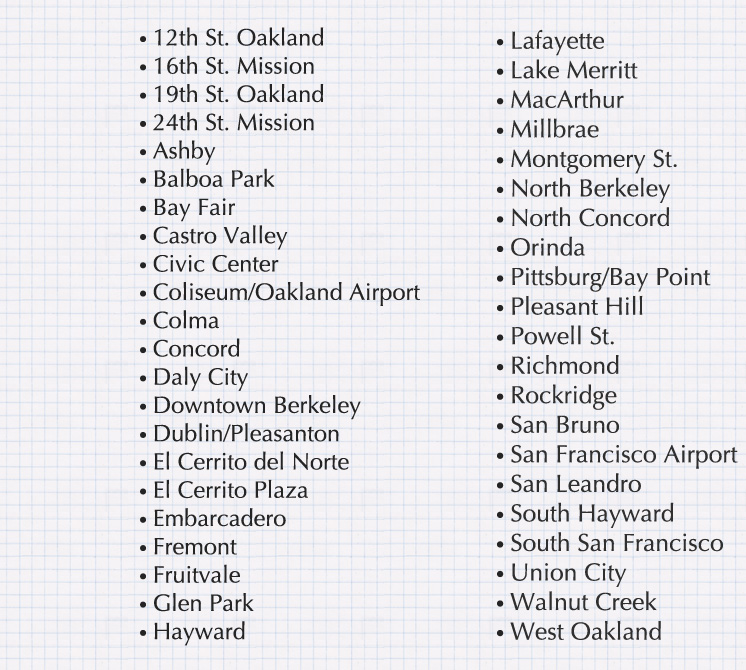
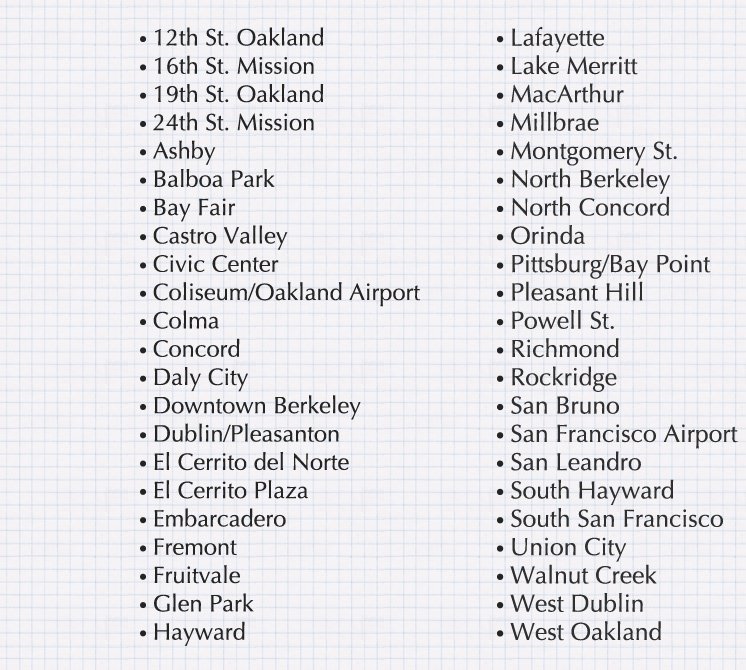
added West Dublin station to maps

diff --git a/BART.wdgt/Maps/Alphabetical/info.js b/BART.wdgt/Maps/Alphabetical/info.js
@@ -10,27 +10,27 @@ map.height = 670  // px
 
 map.isZoomable = false
  
-map.addStation("Richmond",501,369)
+map.addStation("Richmond",501,350)
 map.addStation("Del Norte",143,464)
 map.addStation("Plaza",143,492)
-map.addStation("North Berkeley",501,192)
+map.addStation("North Berkeley",501,180)
 map.addStation("Berkeley",143,408)
 map.addStation("Ashby",143,153)
-map.addStation("Rockridge",501,398)
-map.addStation("Orinda",501,250)
-map.addStation("Lafayette",501,44)
-map.addStation("Walnut Creek",501,606)
-map.addStation("Pleasant Hill",501,309)
+map.addStation("Rockridge",501,378)
+map.addStation("Orinda",501,237)
+map.addStation("Lafayette",501,39)
+map.addStation("Walnut Creek",501,576)
+map.addStation("Pleasant Hill",501,294)
 map.addStation("Concord",143,353)
-map.addStation("North Concord",501,221)
-map.addStation("Pittsburg",501,281)
-map.addStation("MacArthur",501,103)
+map.addStation("North Concord",501,208)
+map.addStation("Pittsburg",501,265)
+map.addStation("MacArthur",501,95)
 map.addStation("19th St",143,97)
 map.addStation("12th St",143,41)
-map.addStation("West Oakland",501,635)
+map.addStation("West Oakland",501,633)
 map.addStation("Embarcadero",143,522)
-map.addStation("Montgomery",501,162)
-map.addStation("Powell",501,340)
+map.addStation("Montgomery",501,152)
+map.addStation("Powell",501,322)
 map.addStation("Civic Center",143,267)
 map.addStation("16th St",143,69)
 map.addStation("24th St",143,124)
@@ -38,19 +38,19 @@ map.addStation("Glen Park",143,606)
 map.addStation("Balboa Park",143,181)
 map.addStation("Daly City",143,380)
 map.addStation("Colma",143,324)
-map.addStation("South SF",501,547)
-map.addStation("San Bruno",501,428)
-map.addStation("SFO",501,457)
-map.addStation("Millbrae",501,132)
-map.addStation("Lake Merritt",501,74)
+map.addStation("South SF",501,520)
+map.addStation("San Bruno",501,407)
+map.addStation("SFO",501,435)
+map.addStation("Millbrae",501,124)
+map.addStation("Lake Merritt",501,67)
 map.addStation("Fruitvale",143,578)
 map.addStation("Coliseum",143,296)
-map.addStation("San Leandro",501,487)
+map.addStation("San Leandro",501,464)
 map.addStation("Bay Fair",143,211)
 map.addStation("Castro Valley",143,239)
-map.addStation("West Dublin",0,0)
+map.addStation("West Dublin",501,605)
 map.addStation("Dublin",143,436)
 map.addStation("Hayward",143,634)
-map.addStation("South Hayward",501,516)
-map.addStation("Union City",501,576)
+map.addStation("South Hayward",501,492)
+map.addStation("Union City",501,548)
 map.addStation("Fremont",143,548)

diff --git a/BART.wdgt/Maps/Classic/info.js b/BART.wdgt/Maps/Classic/info.js
@@ -1,4 +1,4 @@
-//------------------------------------------------------------------------------
+117//------------------------------------------------------------------------------
 //  Classic/info.js is part of the BART dashboard widget.  (c) 2005 Bret Victor
 //  This software is licensed under the terms of the open source MIT license.
 //------------------------------------------------------------------------------
@@ -52,7 +52,7 @@ map.addStation("Coliseum",382,369)
 map.addStation("San Leandro",417,416)
 map.addStation("Bay Fair",446,446)
 map.addStation("Castro Valley",490,456)
-map.addStation("West Dublin",610,446)
+map.addStation("West Dublin",614,448)
 map.addStation("Dublin",665,445)
 map.addStation("Hayward",482,484)
 map.addStation("South Hayward",509,526)

diff --git a/BART.wdgt/Maps/Clean/info.js b/BART.wdgt/Maps/Clean/info.js
@@ -51,8 +51,8 @@ map.addStation("Fruitvale",402,341)
 map.addStation("Coliseum",423,366)
 map.addStation("San Leandro",442,389)
 map.addStation("Bay Fair",462,413)
-map.addStation("Castro Valley",550,426)
-map.addStation("West Dublin",600,424)
+map.addStation("Castro Valley",535,426)
+map.addStation("West Dublin",604,424)
 map.addStation("Dublin",651,423)
 map.addStation("Hayward",513,470)
 map.addStation("South Hayward",533,494)

diff --git a/BART.wdgt/Maps/Euro/info.js b/BART.wdgt/Maps/Euro/info.js
@@ -50,8 +50,8 @@ map.addStation("Fruitvale",402,352)
 map.addStation("Coliseum",424,372)
 map.addStation("San Leandro",458,406)
 map.addStation("Bay Fair",482,430)
-map.addStation("Castro Valley",535,446)
-map.addStation("West Dublin",613,446)
+map.addStation("Castro Valley",540,446)
+map.addStation("West Dublin",617,446)
 map.addStation("Dublin",690,446)
 map.addStation("Hayward",511,481)
 map.addStation("South Hayward",531,539)
